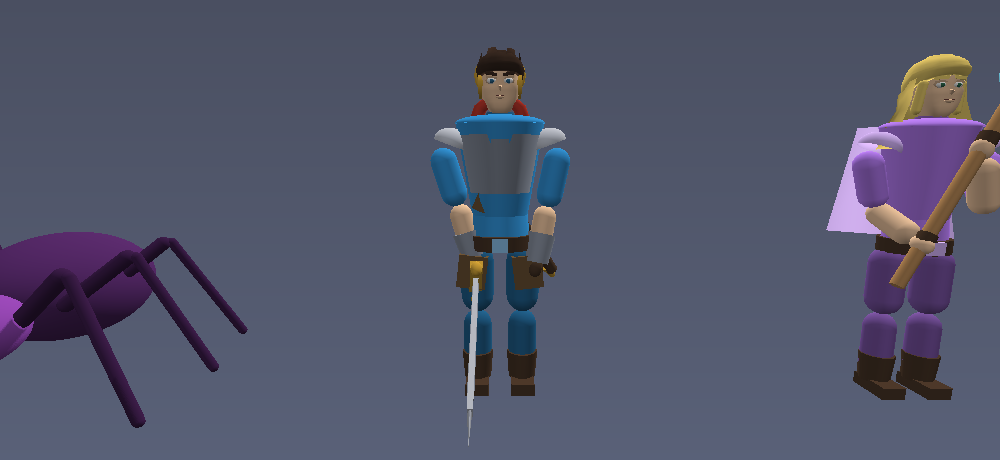
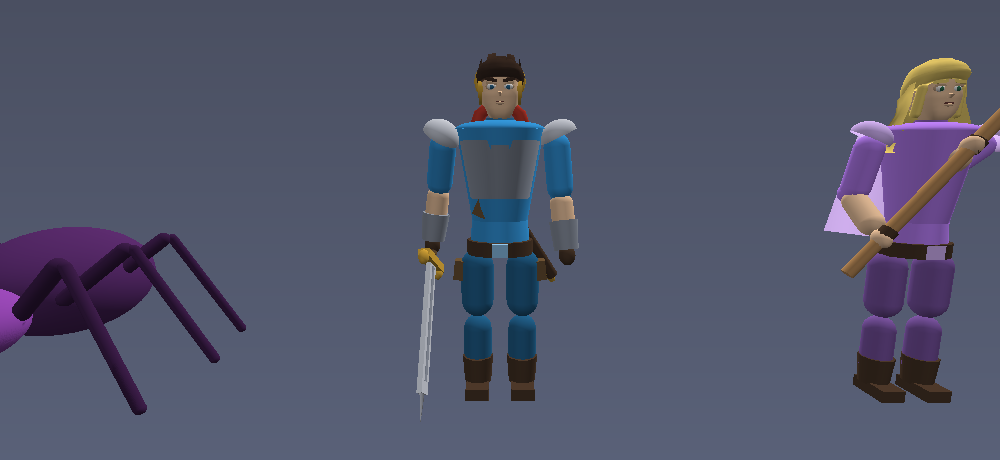
Шарнир локтя, тесты силуэта, запас по касту в цель
- Шарнир elbowCap висел по центру сустава и наезжал на голое предплечье:
  рукав казался обрезанным посреди локтя. Сдвинут вверх и уменьшен.
- Каст в цель проходил тест с запасом 0.048 — держался на самом пороге.
  Перебором найден вариант с запасом 0.177 без падения других тестов.
- Четыре теста силуэта: плечи на линии ключиц и руки мимо бёдер,
  наплечник едет с рукой, шарнир сшивает рукав с предплечьем, сумки
  снаружи бедра и небольшие, локоть Елены отведён от корпуса.

Первая версия теста локтя оказалась пустышкой: капсулы перекрываются
даже с коротким рукавом, и мутация проходила. Проверка переписана на
шарнир — он и закрывает стык.

diff --git a/src/render/models.js b/src/render/models.js
@@ -530,11 +530,13 @@ export function createHumanoid(scene, { id, color = '#3498db', weapon = 'sword',
     const foreArmL = limb(`${id}_foreArmL`, elbowL, 0.5, 0.105, skin);
     const foreArmR = limb(`${id}_foreArmR`, elbowR, 0.5, 0.105, skin);
 
-    // Шарнир локтя: небольшая сфера в самом суставе окончательно скрывает
-    // стык двух капсул при любом угле сгиба.
+    // Шарнир локтя скрывает стык двух капсул при любом угле сгиба. Сфера
+    // сдвинута ВВЕРХ от сустава и уменьшена: по центру она свисала на
+    // голое предплечье, и рукав казался обрезанным посреди локтя.
     for (const [name, parent] of [[`${id}_elbowCapL`, elbowL], [`${id}_elbowCapR`, elbowR]]) {
-        const cap = track(MeshBuilder.CreateSphere(name, { diameter: 0.23, segments: 8 }, scene));
+        const cap = track(MeshBuilder.CreateSphere(name, { diameter: 0.2, segments: 8 }, scene));
         cap.parent = parent;
+        cap.position.y = 0.05;
         cap.material = cloth;
     }
     limb(`${id}_thighL`, hipL, 0.64, 0.15, clothDark);

diff --git a/src/render/Animator.js b/src/render/Animator.js
@@ -45,7 +45,7 @@ const SWING_SECONDS = 0.42;
  */
 const STAFF_POSES = {
     castTarget: {
-        shoulderRX: 0.60, shoulderRZ: -0.30, elbowR: 0.00, wrist: 0.10,
+        shoulderRX: 0.60, shoulderRZ: -0.30, elbowR: 0.30, wrist: 0.10,
         shoulderLX: 0.50, shoulderLZ: 0.00, elbowL: 0.07,
     },
     castSelf: {
